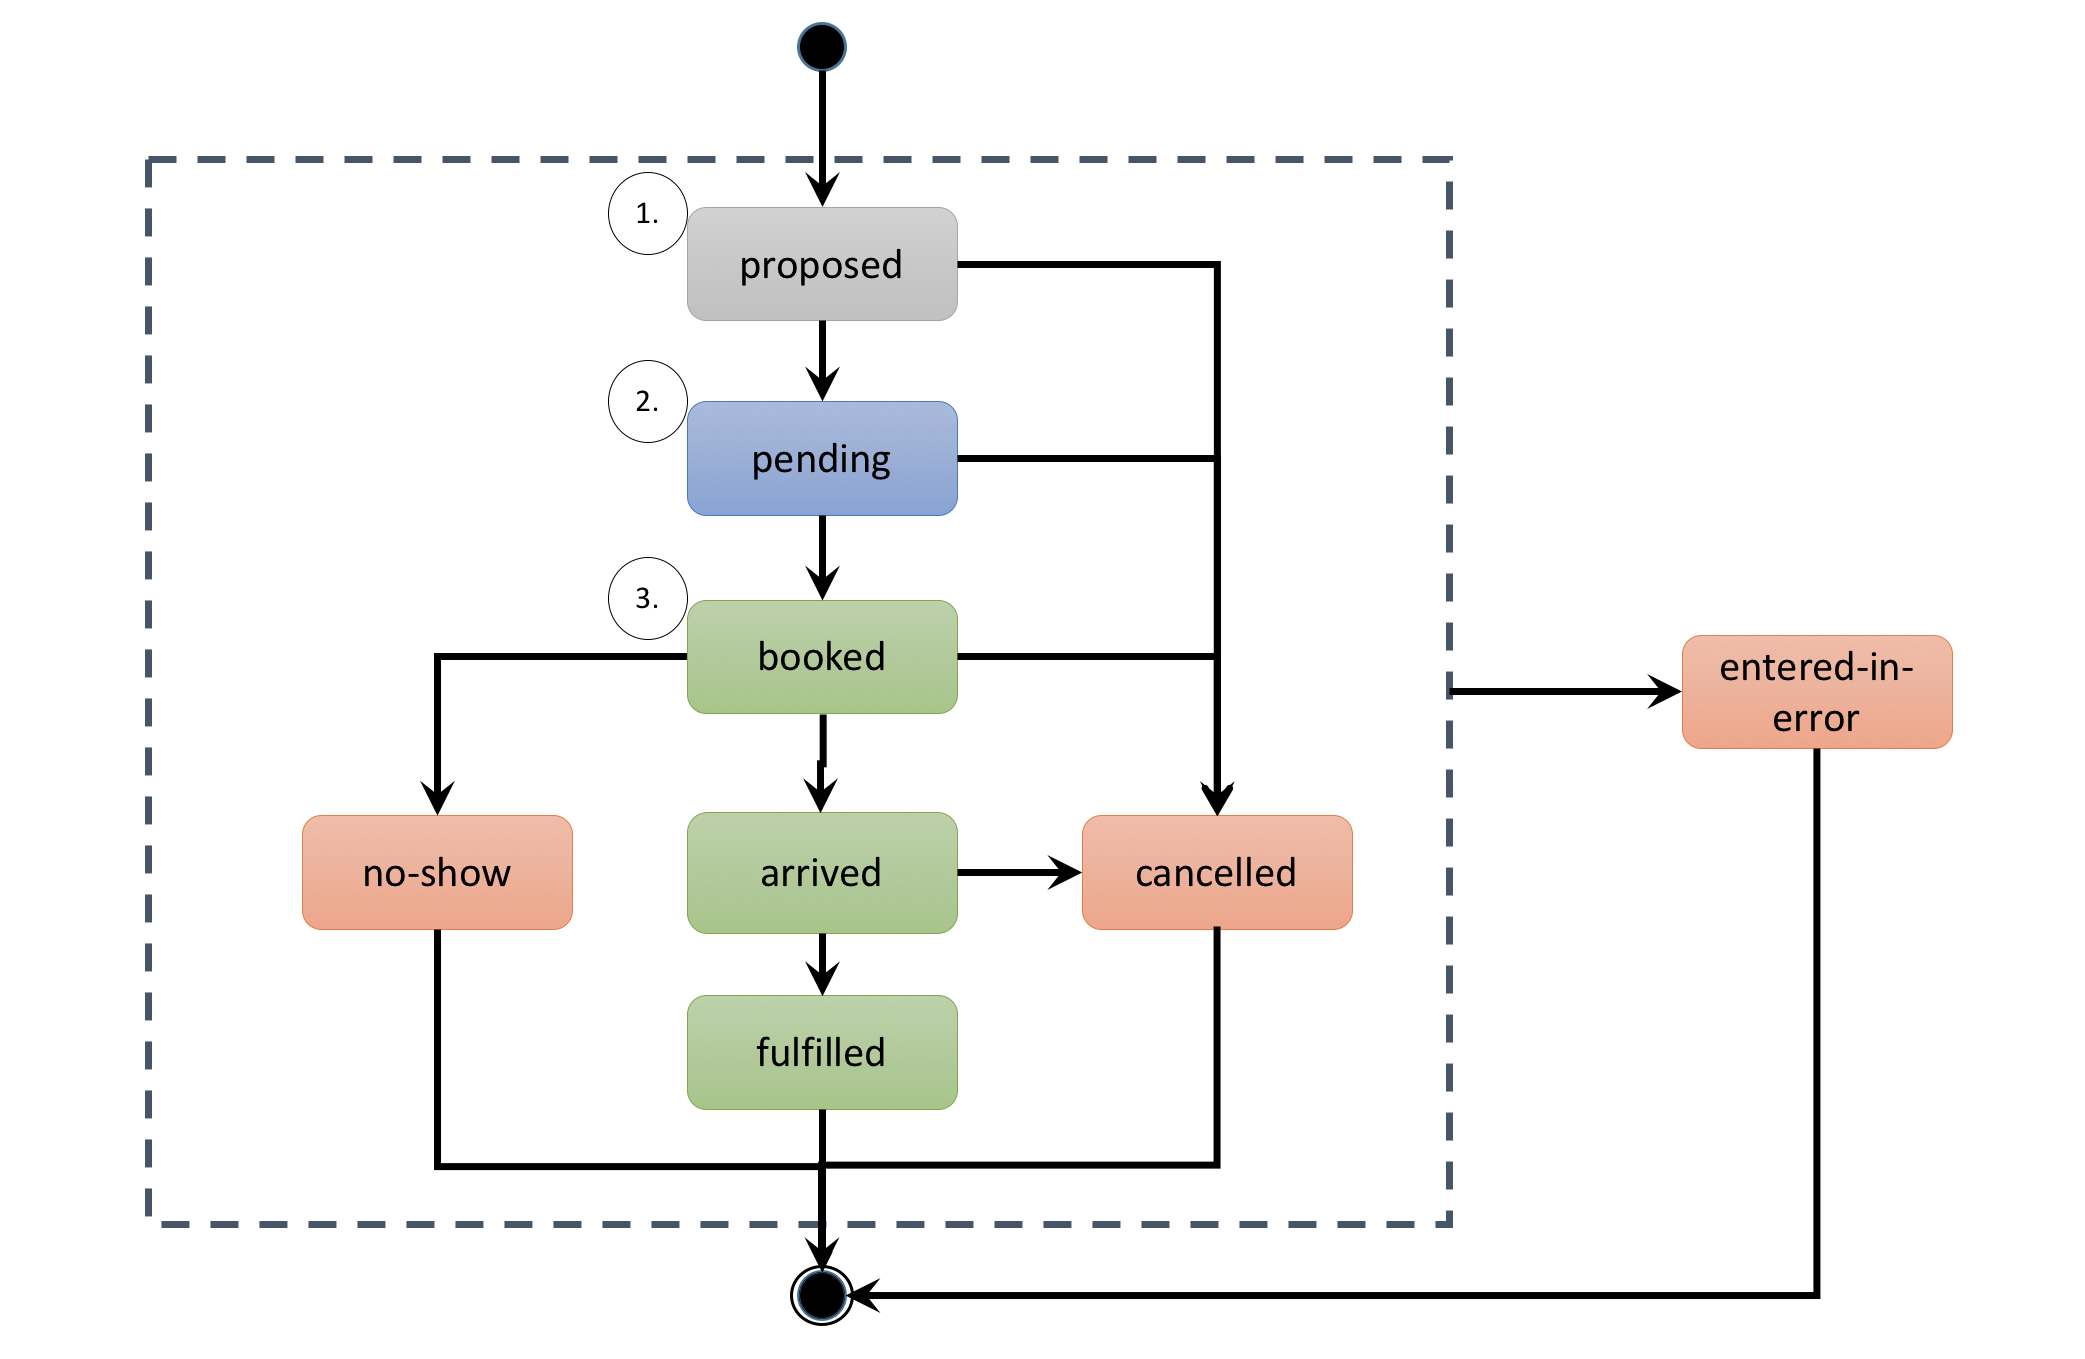
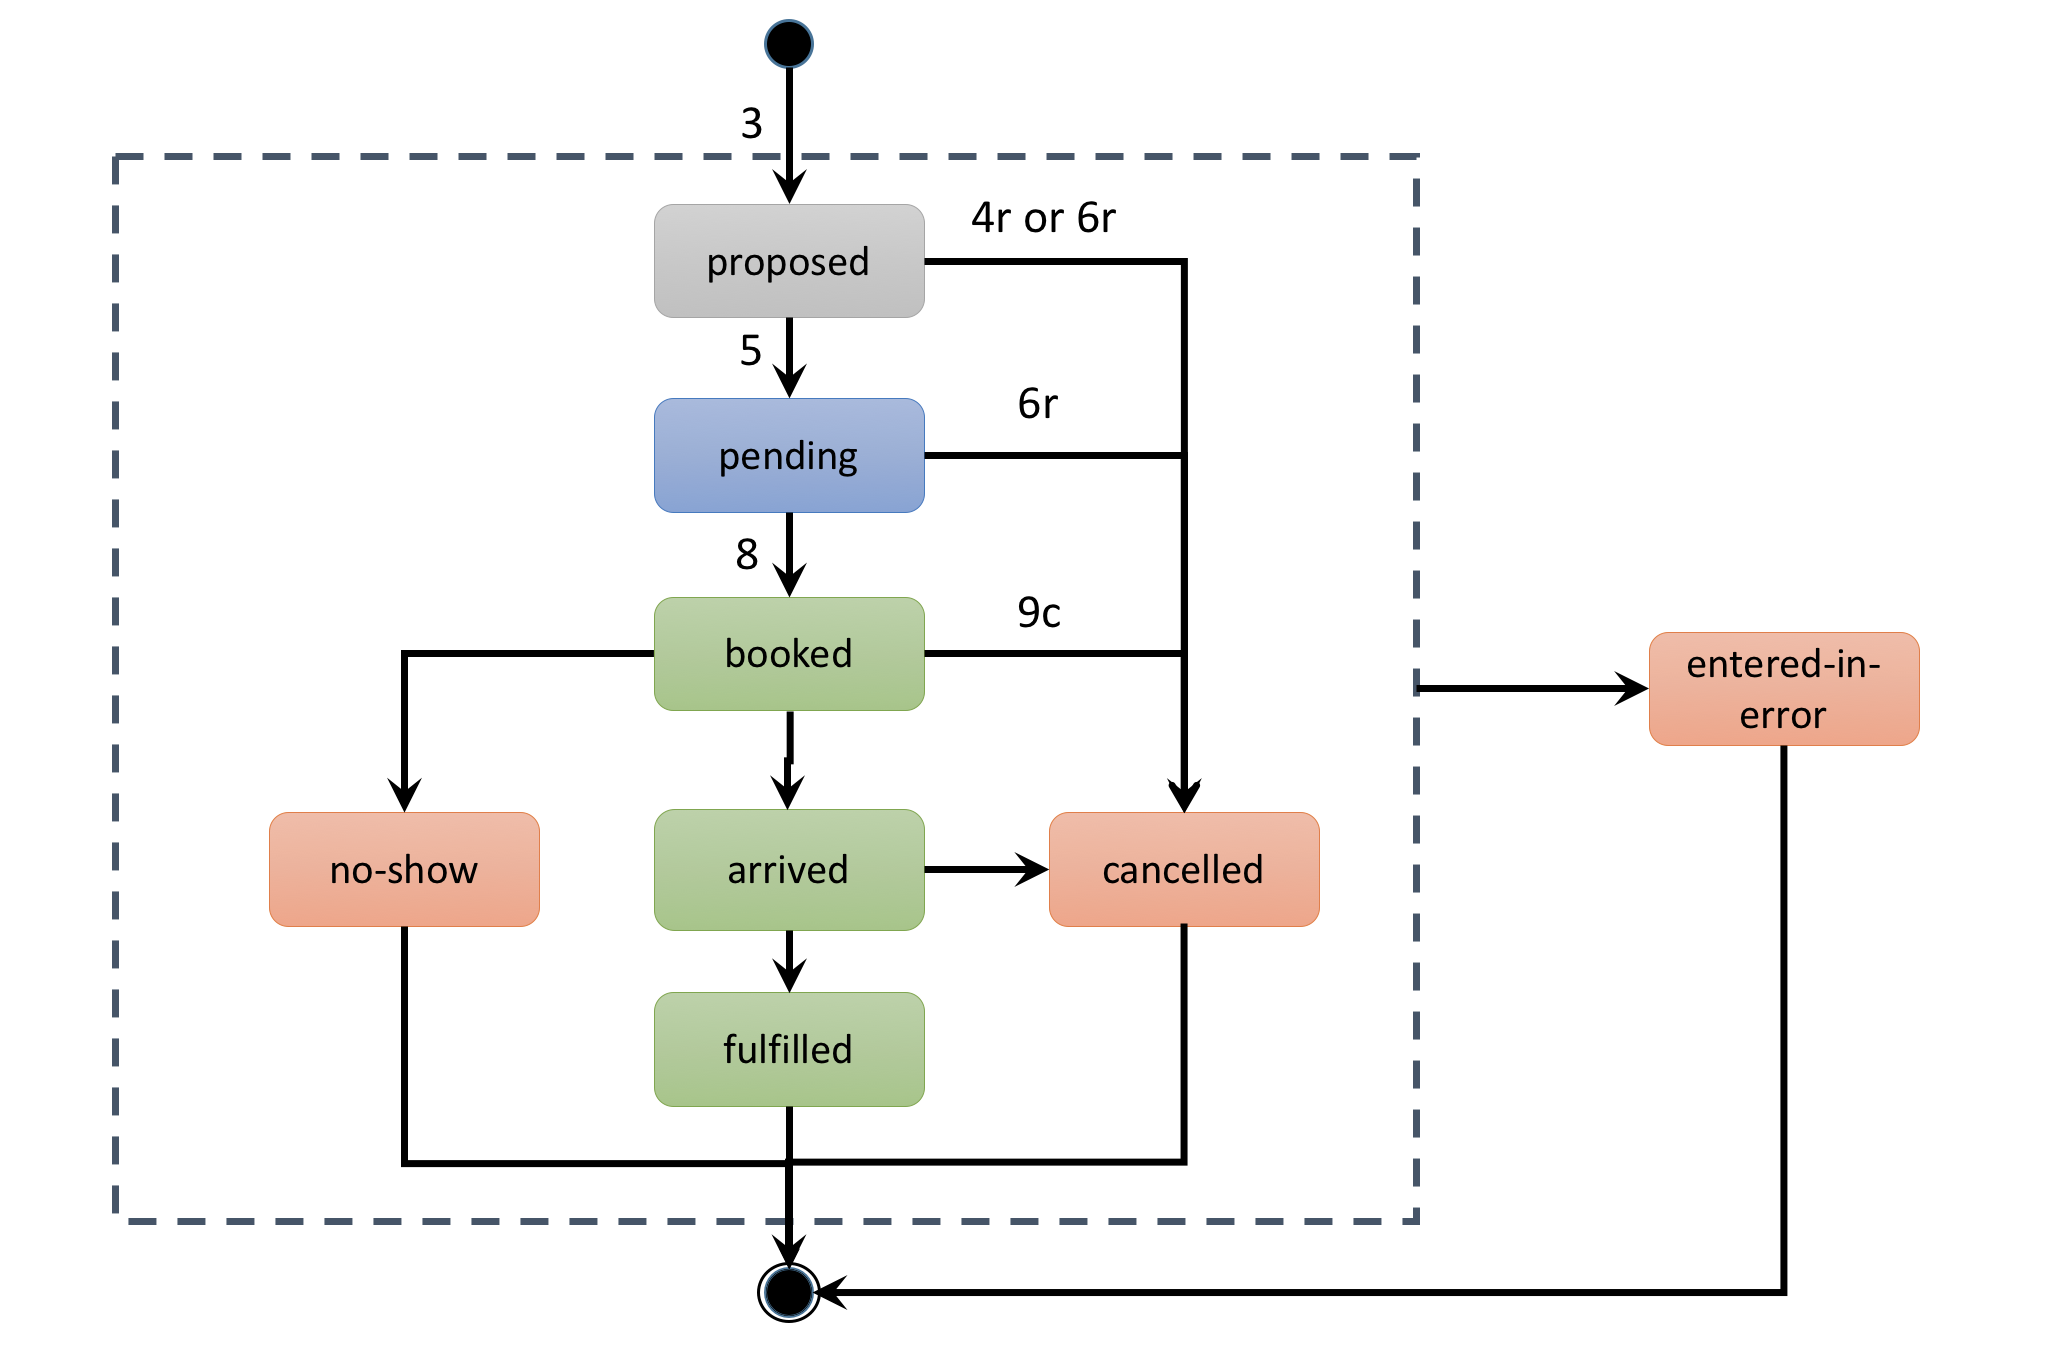
update state diagram

Changed region(s): [[0.0619, 0.0, 0.9589, 0.989], [0.2165, 0.8962, 0.2784, 0.9272], [0.0619, 0.8653, 0.1237, 0.8962]]

diff --git a/pages/_includes/typical-status-transition.md b/pages/_includes/typical-status-transition.md
@@ -1,0 +1,13 @@
+|State|Activity Description|Slot|Appointment|
+|---|---|---|---|
+||The schedule is created/published |status = free||
+||An appointment availability request is processed to locate available slots for all participants |status = free||
+|1.|An appointment availability request is processed and available appointments created ||status = proposed, participant.status = needs-action|
+||*Optional: The hold request for an available appointment is processed and the slot status updated *|status = busy-tentative||
+||*Optional: The appointment hold is accepted as described – by all participants*||participant.status = tentative|
+|2.|*Optional: An appointment hold request is processed and the appointment updated. *||status = pending, participant.status = tentative|
+||The appointment request is processed and the slot status updated |status = busy-tentative||
+|2.|An appointment request is processed and the appointment updated ||status = pending, participant.status = needs-action/tentative|
+||The appointment is accepted as described – by all participants ||participant.status = accepted|
+||*Optional: The patient is registered within the system. I.e., create Patient resource for patient and appointment is accepted by patient*||patient participant.status = accepted|
+|3.|The appointment is confirmed as accepted by all participants |status = busy|status = booked, participant.status = accepted|
